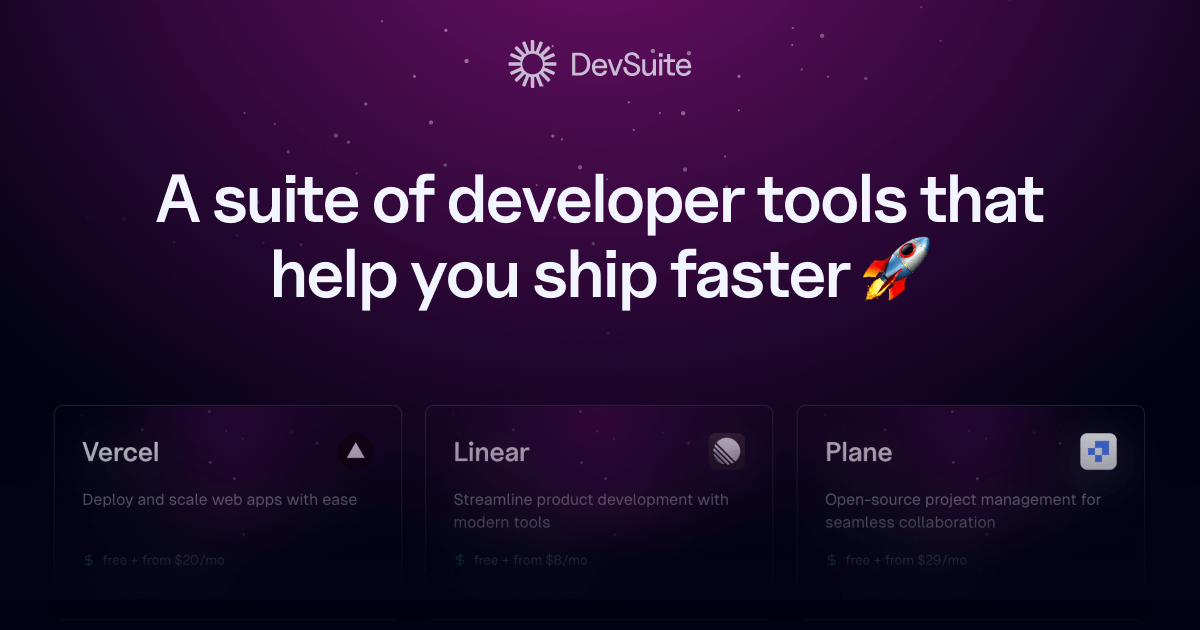
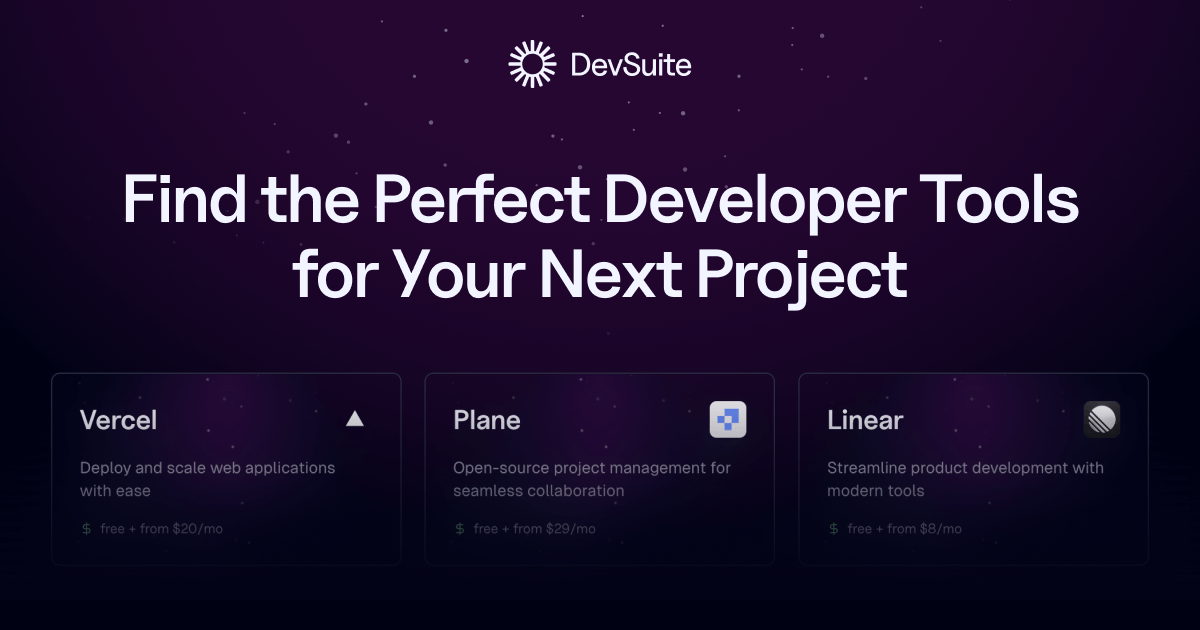
big update after fixing

diff --git a/components/web/nav.tsx b/components/web/nav.tsx
@@ -13,7 +13,7 @@ import { BrandRedditIcon } from "~/components/common/icons/brand-reddit"
 import { BrandWhatsAppIcon } from "~/components/common/icons/brand-whatsapp"
 import { BrandXIcon } from "~/components/common/icons/brand-x"
 import { NavItem, type NavItemProps } from "~/components/web/nav-item"
-import { Dock } from "~/components/web/ui/dock"
+import { Dock, DockItem, DockSeparator } from "~/components/web/ui/dock"
 import { Tooltip, TooltipProvider } from "~/components/web/ui/tooltip"
 import { config } from "~/config"
 import type { ToolOne } from "~/server/tools/payloads"
@@ -117,20 +117,20 @@ export const Nav = ({ tool, previous, next, ...props }: NavProps) => {
       <Dock {...props}>
         {actions.map((action, i) => (
           <Fragment key={i}>
-            {!action && <Dock.Separator />}
+            {!action && <DockSeparator />}
             {action && <NavItem {...action} />}
           </Fragment>
         ))}
 
-        <Dock.Separator />
+        <DockSeparator />
 
         {shareOptions.map(({ platform, url, icon }) => (
           <Tooltip key={platform} tooltip={`Share on ${platform}`} sideOffset={0}>
-            <Dock.Item asChild>
+            <DockItem asChild>
               <Link href={url} target="_blank" rel="noopener noreferrer nofollow">
                 <Slot className="size-4">{icon}</Slot>
               </Link>
-            </Dock.Item>
+            </DockItem>
           </Tooltip>
         ))}
       </Dock>

diff --git a/components/web/ui/dock.tsx b/components/web/ui/dock.tsx
@@ -5,6 +5,20 @@ import { type ComponentProps, isValidElement } from "react"
 import { Box } from "~/components/common/box"
 import { type VariantProps, cva, cx } from "~/utils/cva"
 
+const Dock = ({ className, ...props }: ComponentProps<"div">) => {
+  return (
+    <Box>
+      <div
+        className={cx(
+          "flex flex-wrap items-center bg-background/50 shadow-foreground/10 shadow-[0_0_25px_0_var(--tw-shadow-color)] backdrop-blur-xl rounded-xl py-1.5 px-2 isolate",
+          className,
+        )}
+        {...props}
+      />
+    </Box>
+  )
+}
+
 const dockItemVariants = cva({
   base: [
     "relative p-1.5 rounded transition-all duration-150 ease-in-out",
@@ -44,19 +58,4 @@ const DockSeparator = ({ className, ...props }: ComponentProps<"div">) => {
   return <div className={cx("w-[1px] h-4 -my-2 mx-1.5 bg-foreground/15", className)} {...props} />
 }
 
-export const Dock = ({ className, ...props }: ComponentProps<"div">) => {
-  return (
-    <Box>
-      <div
-        className={cx(
-          "flex items-center bg-background/50 shadow-foreground/10 shadow-[0_0_25px_0_var(--tw-shadow-color)] backdrop-blur-xl rounded-xl py-1.5 px-2 isolate",
-          className,
-        )}
-        {...props}
-      />
-    </Box>
-  )
-}
-
-Dock.Item = DockItem
-Dock.Separator = DockSeparator
+export { Dock, DockItem, DockSeparator }

diff --git a/components/web/nav-item.tsx b/components/web/nav-item.tsx
@@ -3,7 +3,7 @@
 import { Slot } from "@radix-ui/react-slot"
 import hotkeys from "hotkeys-js"
 import { type ReactNode, useEffect } from "react"
-import { Dock } from "~/components/web/ui/dock"
+import { DockItem } from "~/components/web/ui/dock"
 import { Shortcut } from "~/components/web/ui/shortcut"
 import { Tooltip } from "~/components/web/ui/tooltip"
 
@@ -43,11 +43,11 @@ export const NavItem = ({ ...props }: NavItemProps) => {
       }
       sideOffset={0}
     >
-      <Dock.Item isActive={isActive} asChild>
+      <DockItem isActive={isActive} asChild>
         <button type="button" onClick={onClick} disabled={isDisabled}>
           <Slot className="size-4">{icon}</Slot>
         </button>
-      </Dock.Item>
+      </DockItem>
     </Tooltip>
   )
 }

diff --git a/config/links.ts b/config/links.ts
@@ -8,14 +8,14 @@ export const linksConfig = {
   producthunt: "https://www.producthunt.com/posts/devsuite",
   family: [
     {
-      title: "OpenAlternative",
-      href: "https://openalternative.co",
-      description: "Open Source Alternatives to Popular Software",
+      title: "Stepham",
+      href: "https://stepham.com",
+      description: "Personal Website",
     },
     {
-      title: "Superstash",
-      href: "https://superstash.co",
-      description: "No-code directory website builder",
+      title: "xuantiep",
+      href: "https://xuantiep.com",
+      description: "Developer website in developmemt",
     },
     {
       title: "Chipmunk Theme",

diff --git a/components/web/footer.tsx b/components/web/footer.tsx
@@ -120,14 +120,14 @@ export const Footer = ({ children, className, ...props }: HTMLAttributes<HTMLEle
         >
           <img
             src="/_static/authors/piotrkulpinski.webp"
-            alt="Stepham"
+            alt="Piotr Kulpinski"
             loading="lazy"
             width="16"
             height="16"
             decoding="async"
             className="max-sm:hidden size-4 rounded-full"
           />
-          Made by Stepham
+          Made by Piotr Kulpinski
         </NavigationLink>
 
         <p className="text-xs text-foreground/50">This website may contain affiliate links</p>

diff --git a/app/(web)/tools/[slug]/page.tsx b/app/(web)/tools/[slug]/page.tsx
@@ -101,7 +101,8 @@ export default async function ToolPage({ params }: PageProps) {
             <Stack size="sm" className="items-stretch">
               <Button size="md" variant="primary" suffix={<ArrowUpRightIcon />} asChild>
                 <a href={websiteUrl} target="_blank" rel="nofollow noreferrer noopener">
-                  {getUrlHostname(websiteUrl)}
+                  <span className="sm:hidden">Visit</span>
+                  <span className="max-sm:hidden">{getUrlHostname(websiteUrl)}</span>
                 </a>
               </Button>
             </Stack>

diff --git a/components/web/search-form.tsx b/components/web/search-form.tsx
@@ -50,7 +50,7 @@ export const SearchForm = ({ className, ...props }: HTMLAttributes<HTMLFormEleme
           onBlur={handleCollapse}
           ref={inputRef}
           className={cx(
-            "transition-[width,opacity,transform] duration-200 ease-in-out",
+            "transition-[width,opacity,transform] duration-200 ease-in-out max-sm:max-w-24",
             isExpanded ? "w-32 opacity-100" : "w-0 opacity-0",
           )}
         />

diff --git a/components/web/newsletter.tsx b/components/web/newsletter.tsx
@@ -19,7 +19,7 @@ export const Newsletter = ({ className, title, description, ...props }: Newslett
           {description && <p className="text-foreground/50 text-pretty">{description}</p>}
 
           <NewsletterForm
-            buttonProps={{ children: "Join TalktoDev" }}
+            buttonProps={{ children: "Join DevSuite" }}
             medium="cta_form"
             className="max-w-xs"
           />

diff --git a/README.md b/README.md
@@ -3,7 +3,7 @@
 <p align="center"></p>
 
 <p align="center">
-  Build Better, Launch Faster 🚀 Your Go-To Dev Tools
+  Find the Perfect Developer Tools for Your Next Project
   <br>
   <a href="https://devsuite.co"><strong>Learn more »</strong></a>
   <br />
@@ -23,7 +23,7 @@
 </p>
 
 <p align="center">
-  <a href="https://www.producthunt.com/posts/devsuite?utm_source=badge-featured&utm_medium=badge&utm_souce=badge-devsuite" target="_blank"><img src="https://api.producthunt.com/widgets/embed-image/v1/featured.svg?post_id=579017&theme=light" alt="DevSuite - Build Better, Launch Faster 🚀 Your Go-To Dev Tools | Product Hunt" style="width: 250px; height: 54px;" width="250" height="54" /></a>
+  <a href="https://www.producthunt.com/posts/devsuite?utm_source=badge-featured&utm_medium=badge&utm_souce=badge-devsuite" target="_blank"><img src="https://api.producthunt.com/widgets/embed-image/v1/featured.svg?post_id=579017&theme=light" alt="DevSuite - Find the Perfect Developer Tools for Your Next Project | Product Hunt" style="width: 250px; height: 54px;" width="250" height="54" /></a>
 </p>
 
 ## About this project
